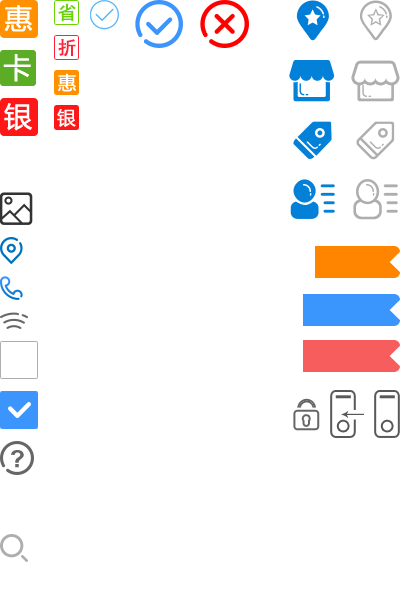
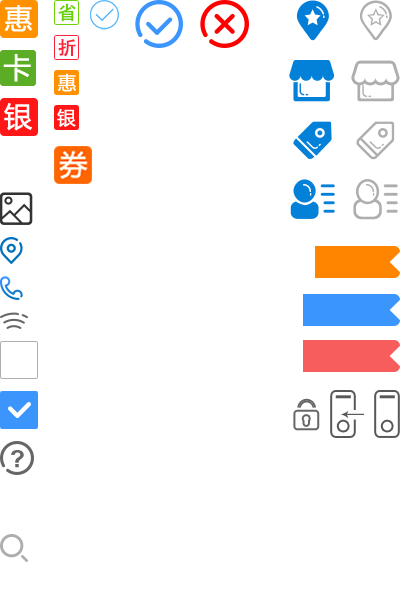
首页增加领取优惠券功能

Changed region(s): [[0.12, 0.24, 0.24, 0.33]]

diff --git a/css/layout.css b/css/layout.css
@@ -1239,3 +1239,37 @@
 .log-foot img{
   display: block;
 }
+/*20170130补充*/
+.link-group p{
+  display: block;
+  overflow: hidden;
+  line-height: 35px;
+  border-bottom: 1px dotted #dbdbdb;
+  padding-right: 20px;
+  margin-left: 20px;
+  color: #666;
+}
+.link-group p i.quan{
+  width: 20px;
+  height: 20px;
+  float: left;
+  margin: 8px 8px 0 0;
+  background-position: -27px -73px;
+}
+.link-group p .f12{
+  font-size: 12px;
+}
+.link-group p button{
+  float: right;
+  width: 80px;
+  height: 25px;
+  padding: 0;
+  margin-top: 5px;
+  color: #fff;
+  background-color: #ccc;
+  border-radius: 3px;
+  border: none;
+}
+.link-group p button.on{
+  background-color: #ff8400;
+}

diff --git a/store-detail.html b/store-detail.html
@@ -74,6 +74,20 @@
       <span class="fr">还剩12345份</span>
     </a>
   </div>
+  <div class="link-group">
+    <p>
+      <i class="all_bg quan"></i>
+      <span class="text">20元满减券</span>
+      <span class="f12">满50可用</span>
+      <button>已领取</button>
+    </p>
+    <p>
+      <i class="all_bg quan"></i>
+      <span class="text">20元满减券</span>
+      <em class="f12">满50可用</em>
+      <button class="on">立即领取</button>
+    </p>
+  </div>
   <div class="itemlist">
     <div class="itemtop">
       <h3>商户信息</h3>
